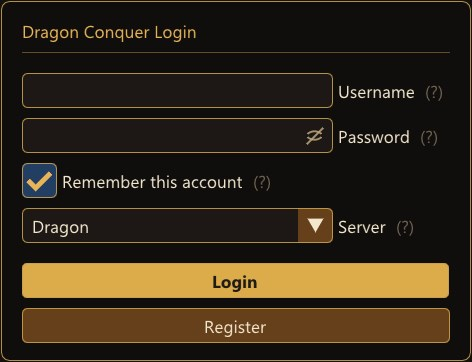
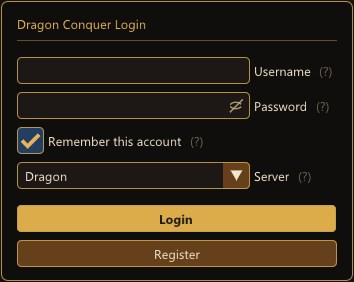
6.0.4 New login images, require 1920x1080 for accounts

diff --git a/scripts/login.py b/scripts/login.py
@@ -28,14 +28,14 @@ _tmpl_hud = cv2.imread(os.path.join(_DIR, 'options_btn.png'), cv2.IMREAD_GRAYSCA
 CONF_PLAY  = 0.8
 CONF_LOGIN = 0.8
 
-# The login form comes in two layouts. Positions are from each image's top-left corner:
-#   user  = ~3/4 along the Username box: past any remembered text (so the caret lands after it),
-#           well clear of the box's edge and its label
-#   pass  = ~3/4 along the Password box, well clear of the show/hide eye icon
+# The login form comes in two layouts (both at 1920x1080). Positions are from each image's
+# top-left corner:
+#   user  = ~3/4 along the Username box: past any remembered text, clear of the box's edge/label
+#   pass  = ~3/4 along the Password box, clear of the show/hide eye icon
 #   login = the Login button
 FORMS = [
-    ('big',   _tmpl_login,       {'user': (270, 90), 'pass': (250, 135), 'login': (236, 280)}),  # 472x362
-    ('small', _tmpl_login_small, {'user': (175, 97), 'pass': (165, 128), 'login': (164, 228)}),  # 331x278
+    ('big',   _tmpl_login,       {'user': (185, 70), 'pass': (175, 105), 'login': (176, 218)}),  # 354x282
+    ('small', _tmpl_login_small, {'user': (140, 78), 'pass': (130, 105), 'login': (140, 195)}),  # 282x243
 ]
 CLEAR_KEYS     = 40           # backspaces to empty a field that might hold a remembered value
 
@@ -197,6 +197,11 @@ def login(account, launch_first=True):
 
 if __name__ == '__main__':
     args = [a for a in sys.argv[1:] if not a.startswith('--')]
+    ok, sw, sh = accounts.screen_ok()
+    if not ok:
+        print(f'[LOGIN] ERROR: the screen is {sw}x{sh}; logging in only works at '
+              f'{accounts.REQUIRED_SCREEN[0]}x{accounts.REQUIRED_SCREEN[1]}')
+        os._exit(1)
     accts = accounts.load()
     if not accts:
         print('[LOGIN] no accounts — turn on Accounts in the settings and fill one in')

diff --git a/static.py b/static.py
@@ -294,6 +294,18 @@ def _go_to_desktop(idx, retries=3):
 def _main():
     accts = []
     if accounts.enabled():
+        ok, sw, sh = accounts.screen_ok()
+        if not ok:
+            need_w, need_h = accounts.REQUIRED_SCREEN
+            print(f'[ACCOUNTS] ERROR: the screen is {sw}x{sh}, but opening accounts needs {need_w}x{need_h} '
+                  '(the login screen can only be found at that size) — accounts turned OFF for this run')
+            game_input._message_box(
+                f'Accounts are ON in the settings, but this screen is {sw}x{sh}.\n\n'
+                f'Logging in only works at {need_w}x{need_h}. Accounts are turned off for this run; '
+                'the script carries on without opening or logging in accounts.\n\n'
+                f'Set the screen to {need_w}x{need_h} and start the script again.',
+                'Dragon CO2 \u2014 accounts', 0x30)   # MB_ICONWARNING
+    if accounts.enabled() and accounts.screen_ok()[0]:
         accts = accounts.load()
         print(f'[ACCOUNTS] {len(accts)} account(s): ' + ', '.join(f'{a.username} -> desktop {a.desktop}' for a in accts))
         if accts:

diff --git a/scripts/accounts.py b/scripts/accounts.py
@@ -8,6 +8,7 @@ import secret
 from dragon_settings import get_settings
 
 MAX_ACCOUNTS = 4
+REQUIRED_SCREEN = (1920, 1080)  # the login pictures only match at this resolution
 
 _DEFAULTS = {'ENABLED': False, 'GAME_PATH': ''}
 for _i in range(1, MAX_ACCOUNTS + 1):
@@ -48,6 +49,15 @@ def load():
             continue
         out.append(Account(i, len(out) + 1, user, password))
     return out
+
+
+def screen_ok():
+    """(ok, width, height) of the primary screen against REQUIRED_SCREEN."""
+    import mss
+    with mss.MSS() as sct:
+        mon = next((m for m in sct.monitors[1:] if m.get('is_primary')), sct.monitors[1])
+    w, h = mon['width'], mon['height']
+    return (w, h) == REQUIRED_SCREEN, w, h
 
 
 def game_path():
